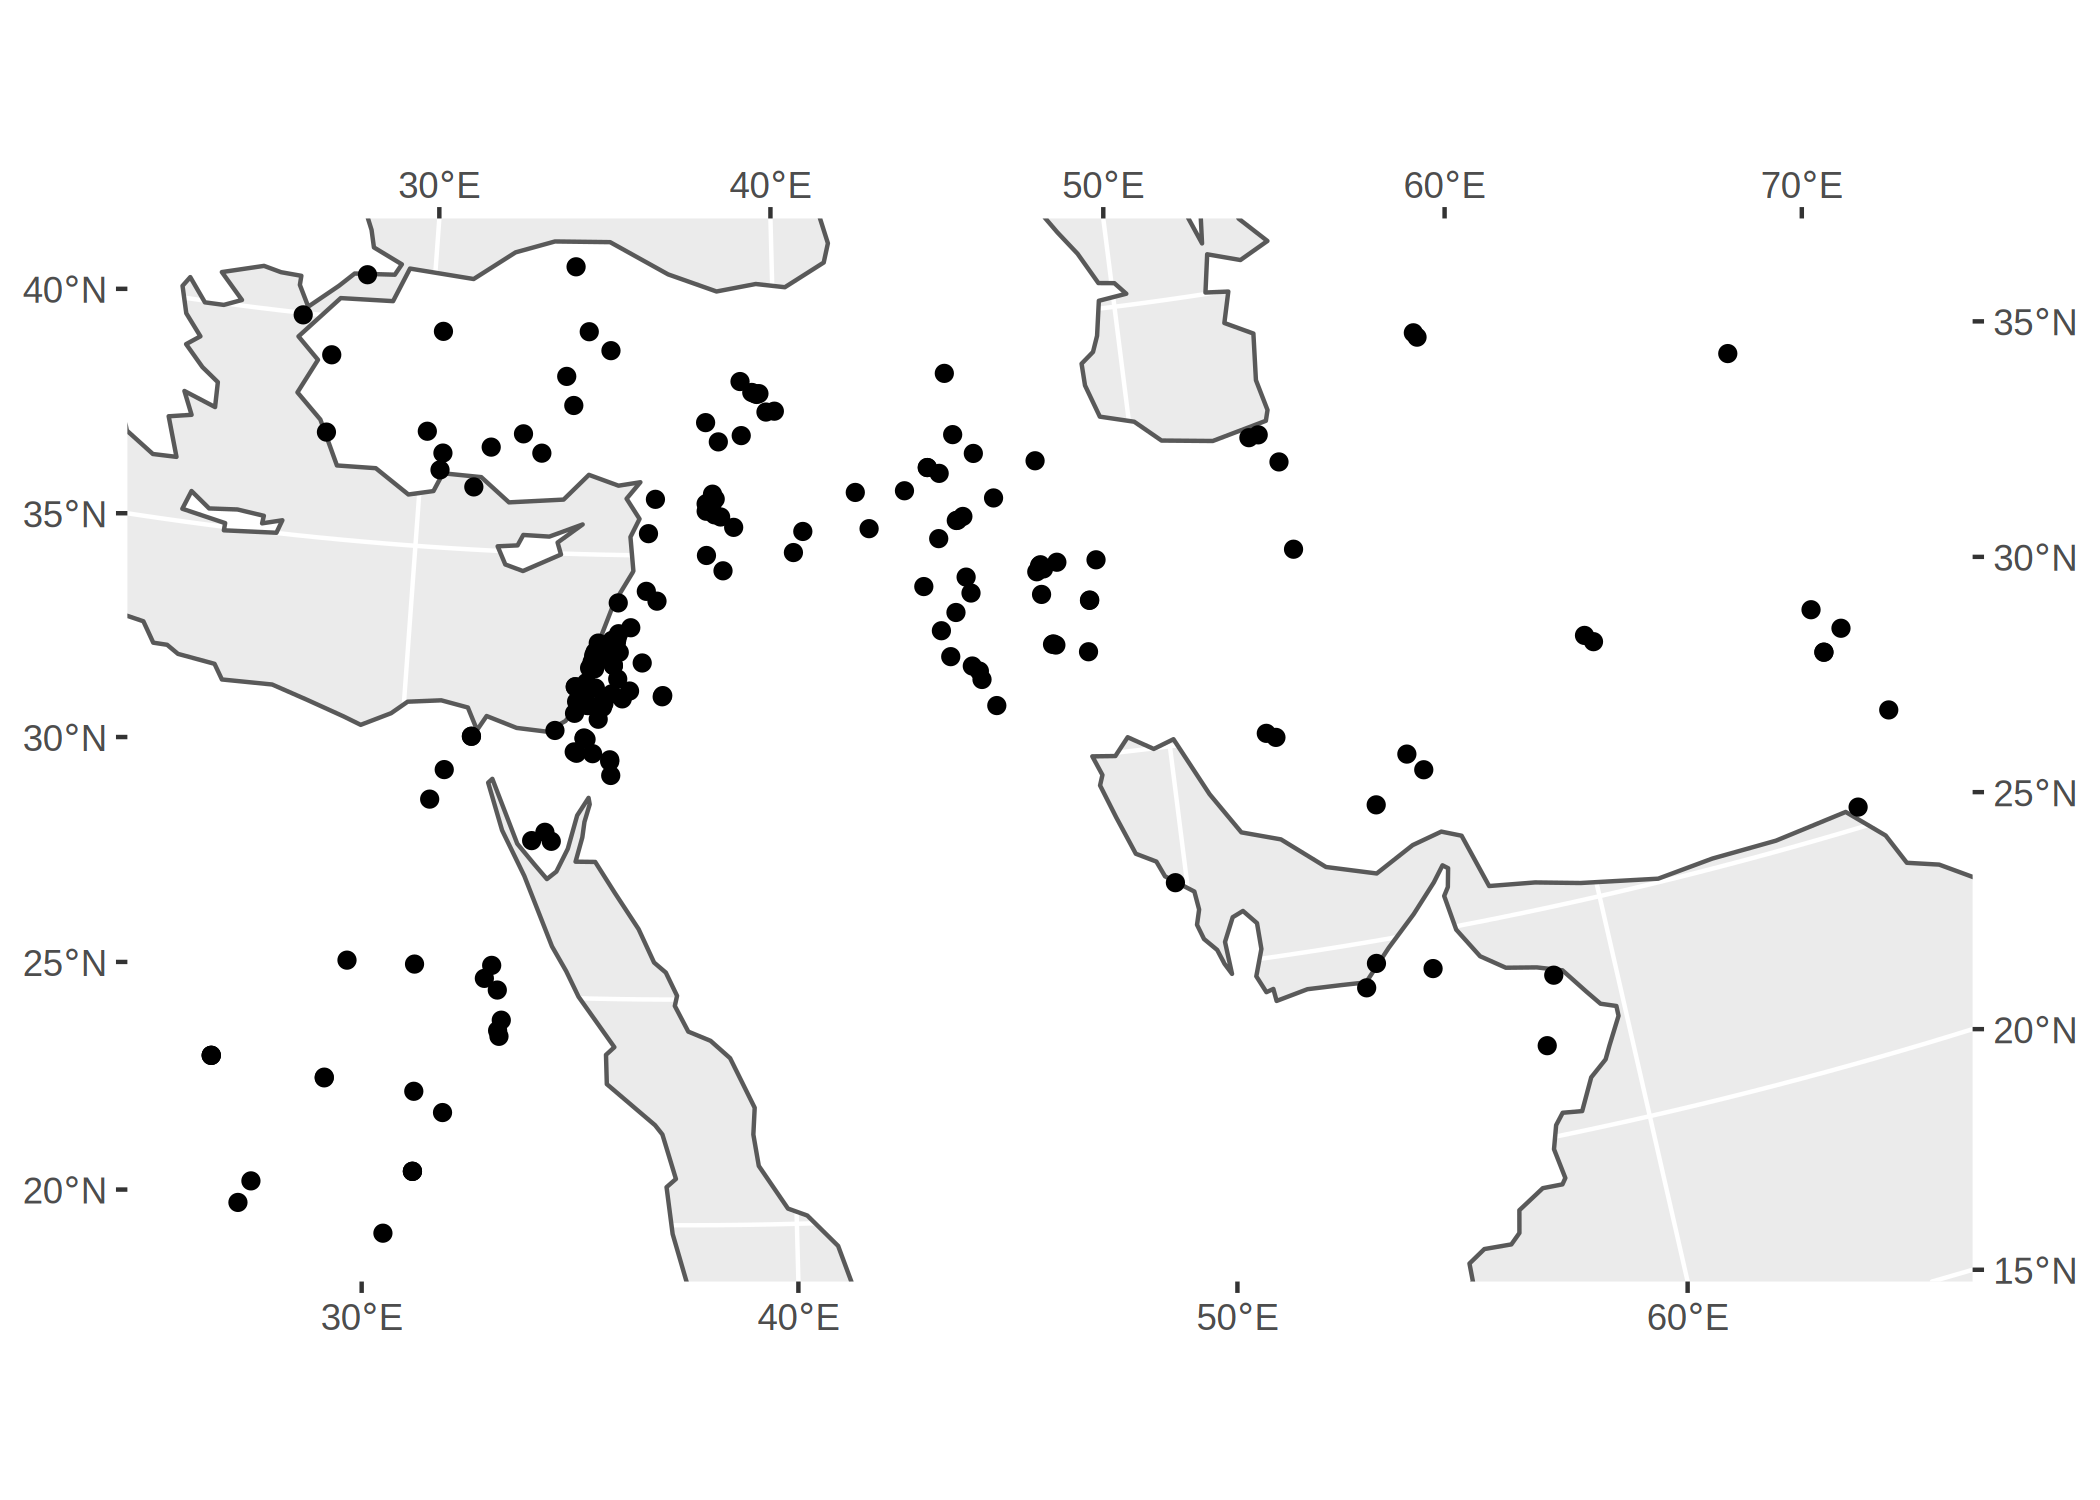
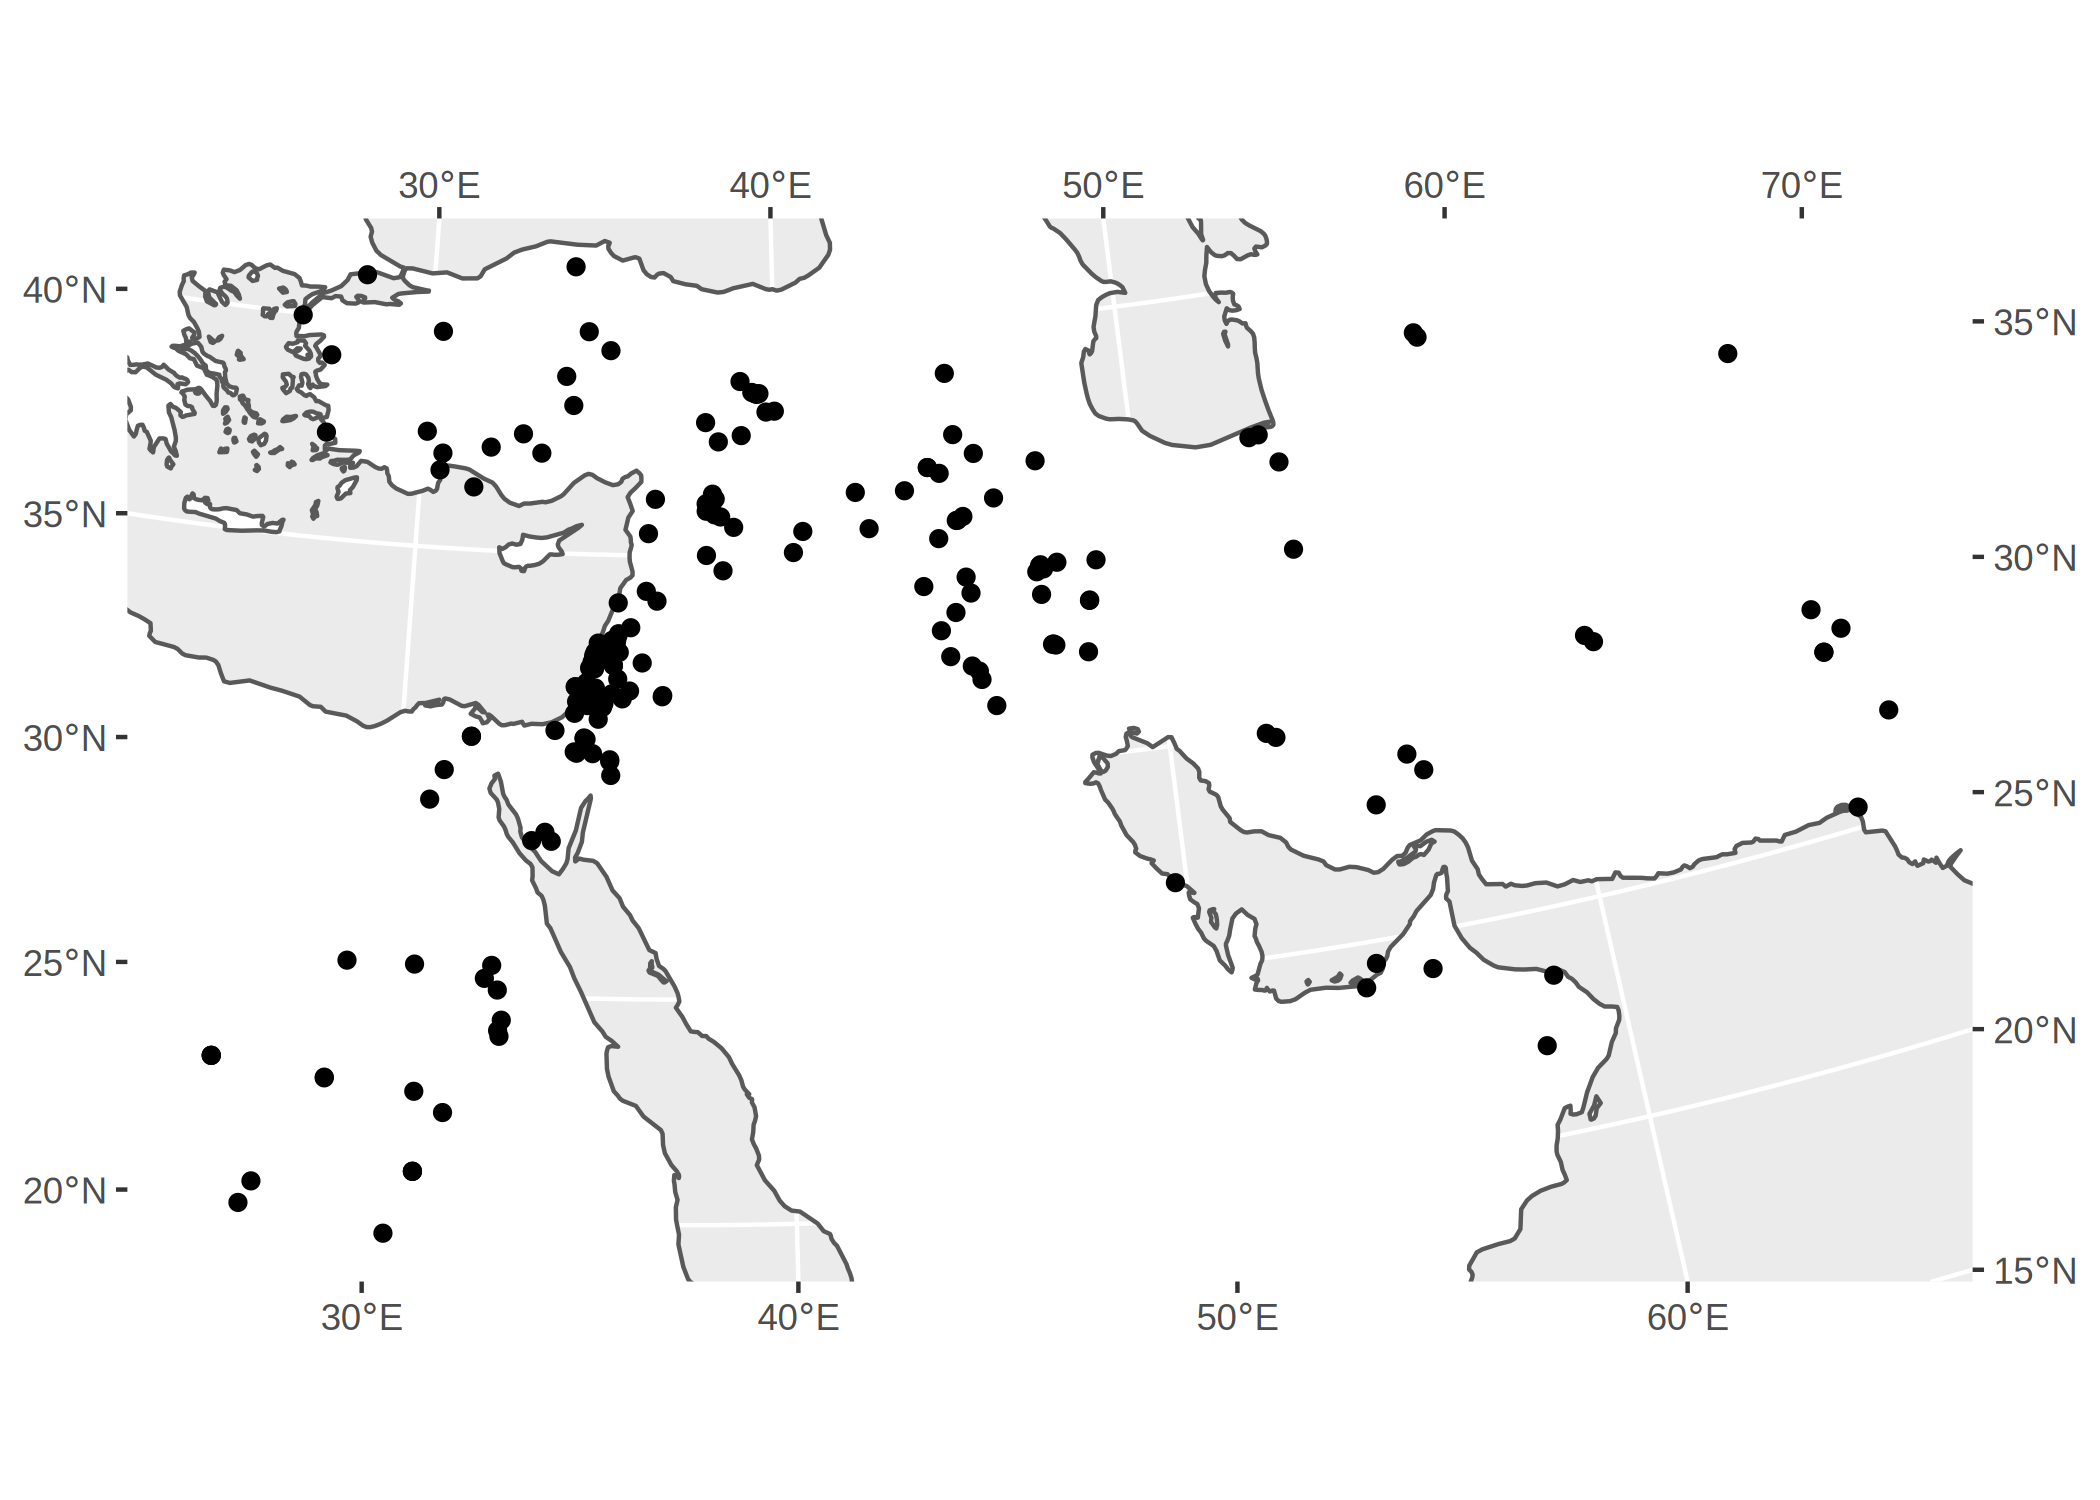
Increase map resolution

diff --git a/README.md b/README.md
@@ -130,8 +130,8 @@ approximately ±1 km.
 ### Taxonomy
 
   - Uerpmann’s various notation for indeterminate species
-    (e.g. “cf. *Oryx*,”*Capra* spec.“,”*Hippotraginae* indet.") are
-    standardised to the form *Genus sp.*
+    (e.g. “cf. *Oryx*”, “*Capra* spec.”, “*Hippotraginae* indet.”)
+    are standardised to the form *Genus sp.*
   - All the taxa listed are included; Uerpmann’s commentary on the
     certainty of identification (e.g. “(?)”, “cf.”) is ignored.
   - Taxa not identified to at least the genus (e.g. “large Bovidae”) are
